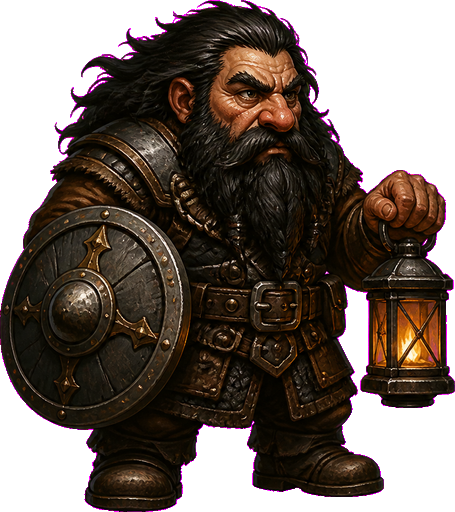
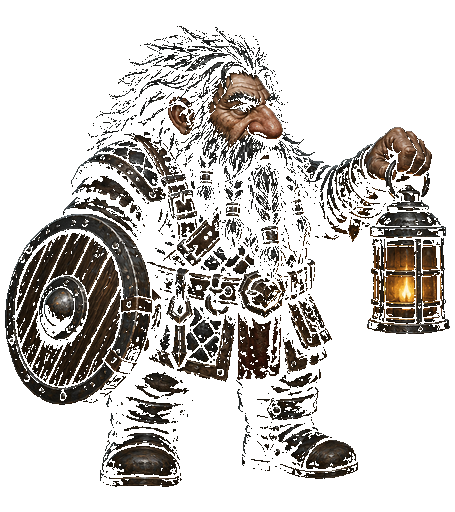
Bind Limner-signed title-law Orbo idle (ASSET_VER 84). (#173)
Wild black, lantern and round shield. Walk/atk unchanged.

diff --git a/src/ui/Ch1RubbleLoad.test.js b/src/ui/Ch1RubbleLoad.test.js
@@ -45,7 +45,7 @@ assert(!/else if\(okTex\)\{/.test(html),
   'generated TEX diamonds are not a first-frame floor/wall fallback');
 assert(/tile_floor_mine\.png\?v=60/.test(html) && /tile_wall_worked\.png\?v=60/.test(html),
   'mine floor and worked wall are preloaded before first present');
-assert(/ASSET_VER='83'/.test(html), 'asset cache-bust matches punched living-Macar sheets');
+assert(/ASSET_VER='84'/.test(html), 'asset cache-bust matches punched living-Macar sheets');
 assert(/function scatterBurialRubble\(/.test(html) && /fallen:1/.test(html) && /k:'dust'/.test(html),
   'cave-in entry scatters extra timber, stone, and dust around the burial');
 assert(/function drawFallenBeam\(/.test(html) && /function drawFloorDust\(/.test(html),

diff --git a/src/combat/ElvenkindBoots.test.js b/src/combat/ElvenkindBoots.test.js
@@ -23,7 +23,7 @@ function extractFn(name){
   return m[0];
 }
 
-assert(/ASSET_VER='83'/.test(html), 'ASSET_VER is unchanged');
+assert(/ASSET_VER='84'/.test(html), 'ASSET_VER is unchanged');
 assert(/function wornMoveMul\(/.test(html) && /function moveStep\(/.test(html),
   'wornMoveMul and moveStep exist (extract of move())');
 assert(/function wearingElvenkind\(/.test(html), 'shared wearingElvenkind helper exists');

diff --git a/src/combat/UseMagicItem.test.js b/src/combat/UseMagicItem.test.js
@@ -48,7 +48,7 @@ assert(/nocked|stays packed/.test(useFn), 'plus-shot ammo use is still nock/read
 assert(/EquipmentSlots\.isEquippable\(it\)/.test(useFn),
   'wearable misc (Displacement) dons through isEquippable before the generic buff+heal');
 
-assert(/ASSET_VER='83'/.test(html), 'ASSET_VER is unchanged');
+assert(/ASSET_VER='84'/.test(html), 'ASSET_VER is unchanged');
 
 const ctx={
   G:{equipped:{}},

diff --git a/index.html b/index.html
@@ -348,7 +348,7 @@ const FONT_QUOTE='"Cormorant Garamond",Palatino,Georgia,serif';
 
 /* ---------------------------- painted sprites (Baldur's Gate isometric) ---------------------------- */
 const SPR={};
-const ASSET_VER='83';
+const ASSET_VER='84';
 let SPLASH_STATE='loading';
 function assetUrl(src){
   const u=src+(src.indexOf('?')>=0?'&':'?')+'v='+ASSET_VER;

diff --git a/src/combat/LeftoverMagic.test.js b/src/combat/LeftoverMagic.test.js
@@ -26,7 +26,7 @@ function extractFn(name){
   return m[0];
 }
 
-assert(/ASSET_VER='83'/.test(html), 'ASSET_VER is unchanged');
+assert(/ASSET_VER='84'/.test(html), 'ASSET_VER is unchanged');
 assert(!/id:'vorpal'|id:'bag_of_holding'|id:'arrow_of_slaying'|id:'javelin_of_lightning'/.test(html),
   'no invented leftover-magic item ids');
 
